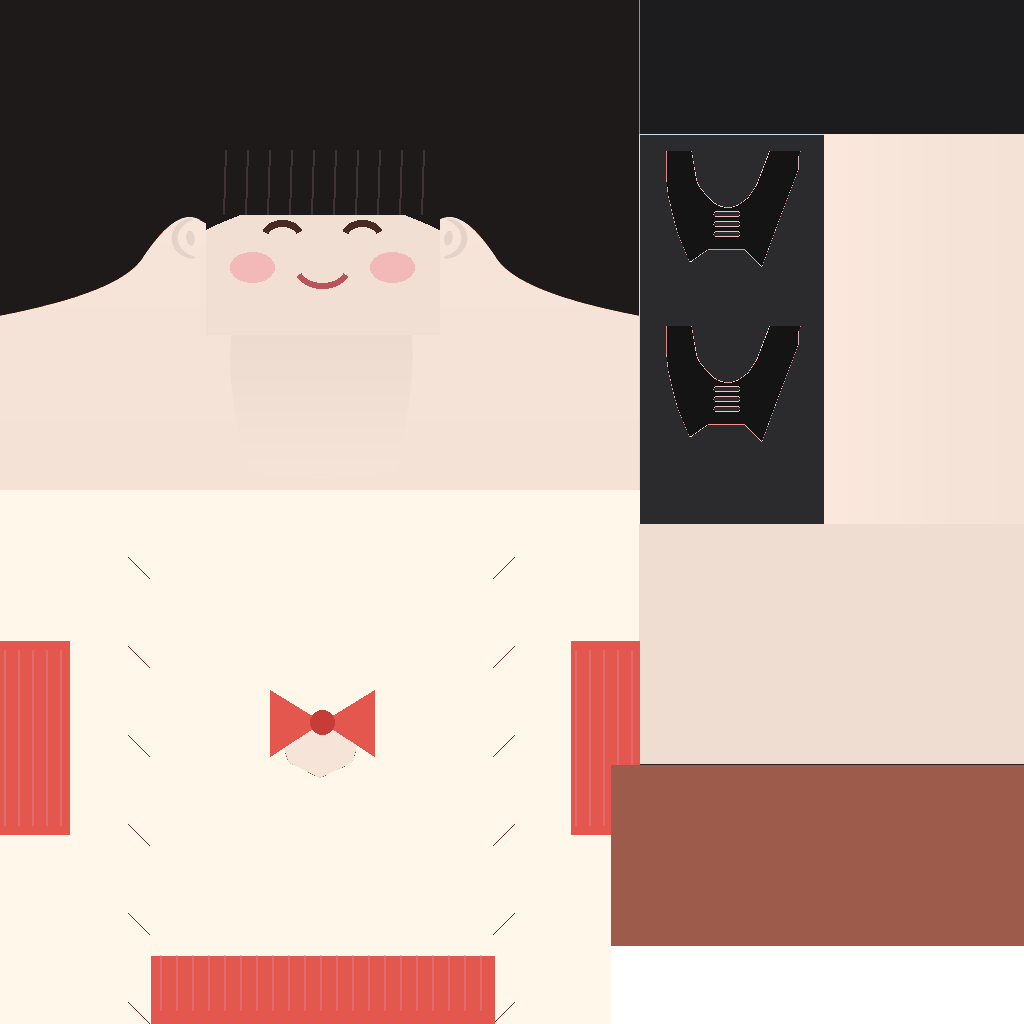
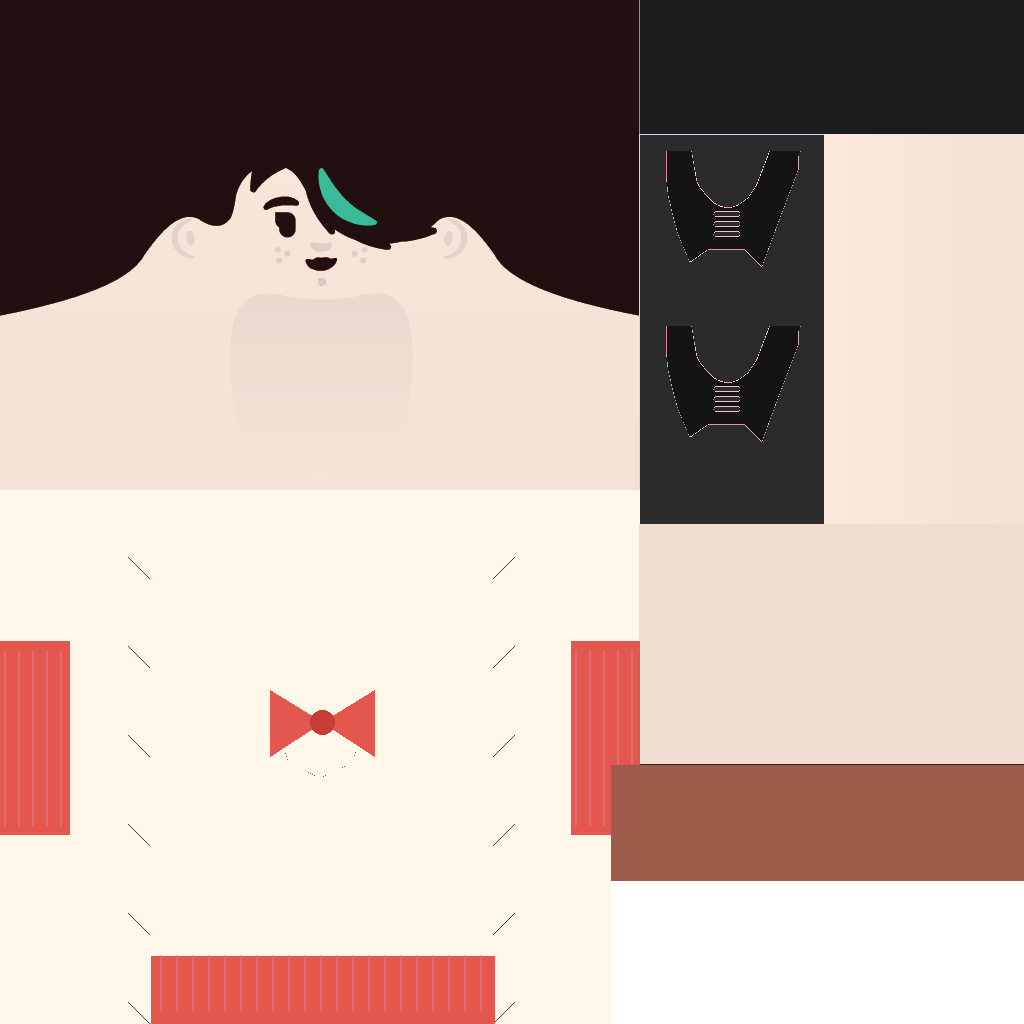
Unity: keep Kenney's original face, light-brown adult shoes (black only in The Past), cleaner cardigan
Claude-Session: https://claude.ai/code/session_01A8L1Rg5C6iHvLgDbtofTmN

Changed region(s): [[0.5938, 0.8438, 1.0, 0.9375], [0.2188, 0.1562, 0.4375, 0.2812]]

diff --git a/mom-game-unity/Tools/make_skins.py b/mom-game-unity/Tools/make_skins.py
@@ -1,6 +1,7 @@
 #!/usr/bin/env python3
 """Paints Mom's / the little girl's skins on top of Kenney's skaterFemaleA skin (CC0) so the
-cute Kenney character wears her cardigan, perm hair and black rubber shoes.
+cute Kenney character wears her cardigan, perm hair and light-brown shoes (black rubber shoes only in The Past).
+The face is Kenney's original (only the skin tone is adjusted).
 Usage: python3 Tools/make_skins.py <skaterFemaleA.png> <out_dir>"""
 import sys, os, random
 import numpy as np
@@ -34,43 +35,32 @@ def paint(variant):
     CARD2 = hexc('#E4574F' if child else '#EBA4B3')   # bow-red / ribbed hem
     HAIR = hexc('#1E1A19')
     DENIM = hexc('#9C5B4B' if child else '#5B7DA8')
-    SHOE = {'shoes': hexc('#141414'), 'girl': hexc('#141414'), 'slippers': hexc('#C9B6E4')}[variant]
-    SHOE2 = {'shoes': hexc('#2B2B2E'), 'girl': hexc('#2B2B2E'), 'slippers': hexc('#F2EAF8')}[variant]
+    SHOE = {'shoes': hexc('#C4A484'), 'girl': hexc('#141414'), 'slippers': hexc('#C9B6E4')}[variant]
+    SHOE2 = {'shoes': hexc('#E0C9AD'), 'girl': hexc('#2B2B2E'), 'slippers': hexc('#F2EAF8')}[variant]
 
     # skin tone everywhere (keeps the shading of the original)
     k = (img.mean(axis=2) / BASE_SKIN.mean())[..., None]
     skin_new = np.clip(FAIR * k, 0, 255)
     out[skin] = skin_new[skin]
 
-    # head: hair colour, then redo the face
+    # head: keep Kenney's original face + hair (only skin tone changed above); add perm curls on the hair
     F = (xx < 640) & (yy < 490)
-    out[F & (dark | teal)] = HAIR
-    face_box = (xx > 205) & (xx < 440) & (yy > 168) & (yy < 335)
-    hairline = 200 + 34 * ((xx - 322) / 125.0) ** 2
-    below = yy > hairline
-    out[face_box & below] = np.clip(FAIR * 0.985, 0, 255)
-    out[face_box & ~below] = HAIR
-    hair_mask = F & (np.abs(out - HAIR).sum(axis=2) < 12)
+    face_box = (xx > 150) & (xx < 500) & (yy > 150) & (yy < 340)
+    hair_mask = F & dark & ~face_box
     im = Image.fromarray(np.clip(out, 0, 255).astype('uint8'))
     d = ImageDraw.Draw(im, 'RGBA')
-    if not child:  # lighter curls to suggest a perm
+    if not child:
         for _ in range(420):
             cx, cy = rnd.randint(0, 639), rnd.randint(0, 489)
             if hair_mask[cy, cx]:
                 rr = rnd.randint(8, 16)
                 d.ellipse((cx - rr, cy - rr, cx + rr, cy + rr), outline=(74, 62, 60, 190), width=3)
-    else:          # girl: straight bangs
-        d.rectangle((215, 150, 430, 214), fill=tuple(int(c) for c in HAIR) + (255,))
-        for x in range(225, 430, 22): d.line((x, 150, x - 2, 214), fill=(62, 52, 50, 255), width=2)
-    dk = (70, 42, 36, 255)                       # closed, smiling eyes + smile + rosy cheeks
-    for ex in (282, 362): d.arc((ex - 21, 220, ex + 21, 252), 200, 340, fill=dk, width=7)
-    d.arc((322 - 28, 246, 322 + 28, 288), 25, 155, fill=(186, 84, 92, 255), width=6)
-    for cx in (252, 392): d.ellipse((cx - 22, 252, cx + 22, 282), fill=(244, 140, 152, 120))
     out = np.array(im, float)
 
     # torso + arms: cardigan (or blouse)
     T = (xx < 640) & (yy >= 490)
     out[T & (dark | red | gray | white | teal)] = CARD
+    out[T & skin & (yy > 600) & (yy < 830) & (xx > 100) & (xx < 540)] = CARD
     hem = T & (yy > 955) & (xx > 150) & (xx < 495)
     out[hem] = CARD2
     cuffs = T & (yy > 640) & (yy < 835) & ((xx < 70) | (xx > 570))
@@ -88,7 +78,7 @@ def paint(variant):
     # legs: denim (hidden by the 3D skirt) down to the calf, skin below (white socks for the girl)
     L = (xx >= 610) & (yy >= 765)
     out[L & (dark | gray)] = DENIM
-    low = L & (yy > 945)
+    low = L & (yy > 880)
     out[low & (np.abs(out - DENIM).sum(axis=2) < 6)] = hexc('#FFFFFF') if child else FAIR
 
     # shoes (uppers on the pale-blue panels) and soles

diff --git a/mom-game-unity/Assets/Scripts/Entities/Mom.cs b/mom-game-unity/Assets/Scripts/Entities/Mom.cs
@@ -4,7 +4,7 @@ using UnityEngine.Animations;
 using UnityEngine.Playables;
 
 // Mom: the cute Kenney "characterMedium" wearing a skin we painted (pink waist-length cardigan,
-// perm hair, closed-eye smile, black rubber shoes / lilac slippers). In The Past she becomes a
+// perm hair, Kenney's original face + denim skirt, light-brown shoes / lilac slippers). In The Past she becomes a
 // little girl (same model, smaller, pigtails). Idle + Run animations are blended into a walk.
 // Controls: A/D turn, W forward, S step back (the camera follows low behind her shoulder).
 public class Mom : MonoBehaviour
@@ -17,7 +17,7 @@ public class Mom : MonoBehaviour
     public CharacterController cc;
     public float heading;                     // degrees; forward = (sin h, 0, cos h)
     public bool child;
-    public bool shoesOn;                      // black rubber shoes (true) or lilac slippers (false)
+    public bool shoesOn;                      // light-brown shoes (true) or lilac slippers (false)
     public bool sitting;
     public Action OnStep;
 
